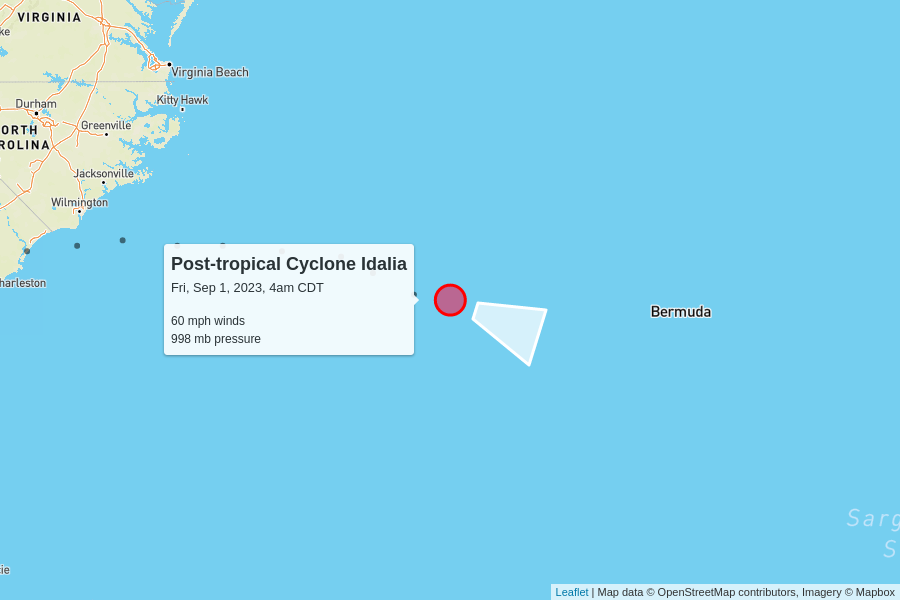
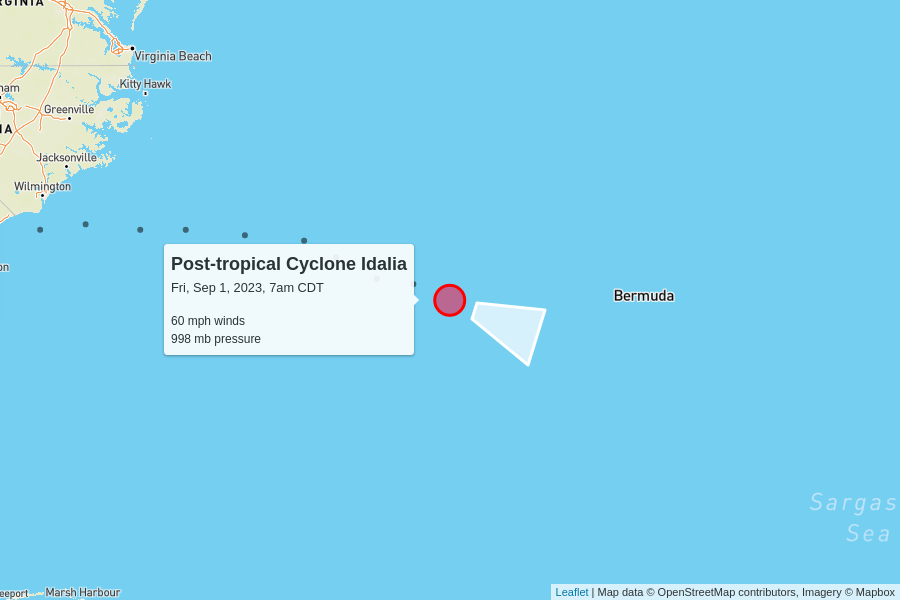
automatic update

diff --git a/docs/index.html b/docs/index.html
@@ -99,6 +99,50 @@
       <tr>
         <td colspan="6" class="storm category-0" >
           <h2>
+            Post-tropical Cyclone Idalia
+            <p class="updated">last updated <span data-time>2023-09-01T12:00:00.000Z</span></p>
+          </h2>
+        </td>
+      </tr>
+      
+      <tr>
+        <th class="spacer"></th>
+        <th>wind speed</th>
+        <th>central pressure</th>
+        <th>movement</th>
+        <th>data (CSV)</th>
+        <th>National Hurricane Center</th>
+      </tr>
+      <tr>
+        <td class="spacer"></td>
+        <td>60 mph</td>
+        <td>998 mb</td>
+        <td>
+          16 mph to the east-southeast
+          <br/>
+          <span style="display: inline-block; font-size: 1.5em; transform: rotate(110deg);">↑</span>
+        </td>
+        <td><a href="https://raw.githubusercontent.com/mgwalker/atlantic-hurricanes/main/data/csv/AL102023.csv">AL102023.csv</a></td>
+        <td><a href="https://www.nhc.noaa.gov/archive/2023/IDALIA.shtml?">NHC advisories</a></td>
+      </tr>
+      <tr id="storm_AL102023" >
+        <td class="spacer">
+        <td colspan="5">
+          <figure>
+            <img src="AL102023.png">
+            <figcaption>
+              Map data &copy; <a href="https://www.openstreetmap.org/copyright">OpenStreetMap</a> contributors,
+              Imagery &copy; <a href="https://www.mapbox.com/">Mapbox</a> |
+              <a href="https://www.mapbox.com/map-feedback/" target="_blank">Improve this map</a>
+            </figcaption>
+          </figure>
+        </td>
+      </tr>
+      
+
+      <tr>
+        <td colspan="6" class="storm category-0" >
+          <h2>
             Tropical Depression Gert
             <p class="updated">last updated <span data-time>2023-09-01T09:00:00.000Z</span></p>
           </h2>
@@ -174,50 +218,6 @@
         <td colspan="5">
           <figure>
             <img src="AL082023.png">
-            <figcaption>
-              Map data &copy; <a href="https://www.openstreetmap.org/copyright">OpenStreetMap</a> contributors,
-              Imagery &copy; <a href="https://www.mapbox.com/">Mapbox</a> |
-              <a href="https://www.mapbox.com/map-feedback/" target="_blank">Improve this map</a>
-            </figcaption>
-          </figure>
-        </td>
-      </tr>
-      
-
-      <tr>
-        <td colspan="6" class="storm category-0" >
-          <h2>
-            Post-tropical Cyclone Idalia
-            <p class="updated">last updated <span data-time>2023-09-01T09:00:00.000Z</span></p>
-          </h2>
-        </td>
-      </tr>
-      
-      <tr>
-        <th class="spacer"></th>
-        <th>wind speed</th>
-        <th>central pressure</th>
-        <th>movement</th>
-        <th>data (CSV)</th>
-        <th>National Hurricane Center</th>
-      </tr>
-      <tr>
-        <td class="spacer"></td>
-        <td>60 mph</td>
-        <td>998 mb</td>
-        <td>
-          16 mph to the east-southeast
-          <br/>
-          <span style="display: inline-block; font-size: 1.5em; transform: rotate(110deg);">↑</span>
-        </td>
-        <td><a href="https://raw.githubusercontent.com/mgwalker/atlantic-hurricanes/main/data/csv/AL102023.csv">AL102023.csv</a></td>
-        <td><a href="https://www.nhc.noaa.gov/archive/2023/IDALIA.shtml?">NHC advisories</a></td>
-      </tr>
-      <tr id="storm_AL102023" >
-        <td class="spacer">
-        <td colspan="5">
-          <figure>
-            <img src="AL102023.png">
             <figcaption>
               Map data &copy; <a href="https://www.openstreetmap.org/copyright">OpenStreetMap</a> contributors,
               Imagery &copy; <a href="https://www.mapbox.com/">Mapbox</a> |
